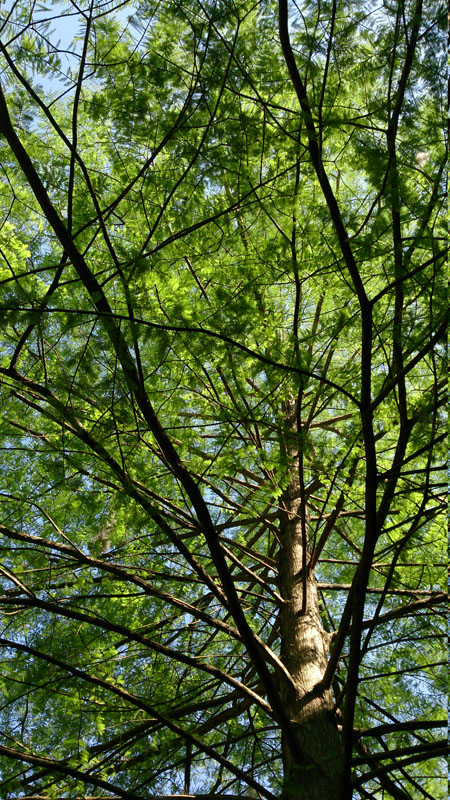
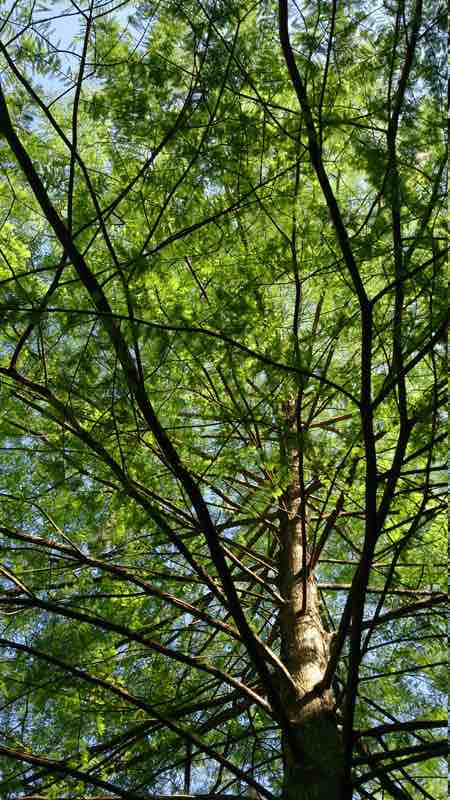
compress pics

diff --git a/index.html b/index.html
@@ -272,7 +272,7 @@ Outside of lab, Chien-Kuang sings in Duke Chapel Choir, and loves to walk and ru
 								<li>
 									<img src="img/Richard.jpg" alt="Placeholder" />
 									<p class="flex-caption">
-										Richard	Opoku-Nsiah - Richard and Sean knew each other while doing internships in 2014. Richard is currently a statistics PhD student at Kansas State University. He is known for his expertise in actuary, soccer and dance- We look foward to seeing this fabulous Ghanaian soon!</p>
+										Richard	Opoku-Nsiah - Richard and Sean have known each other while doing internships in 2014. Richard is currently a statistics PhD student at Kansas State University. He is known for his expertise in actuary, soccer and dance- We look foward to seeing this fabulous Ghanaian soon!</p>
 								</li>
 							</ul>
 						</div><!-- END .flexslider -->
